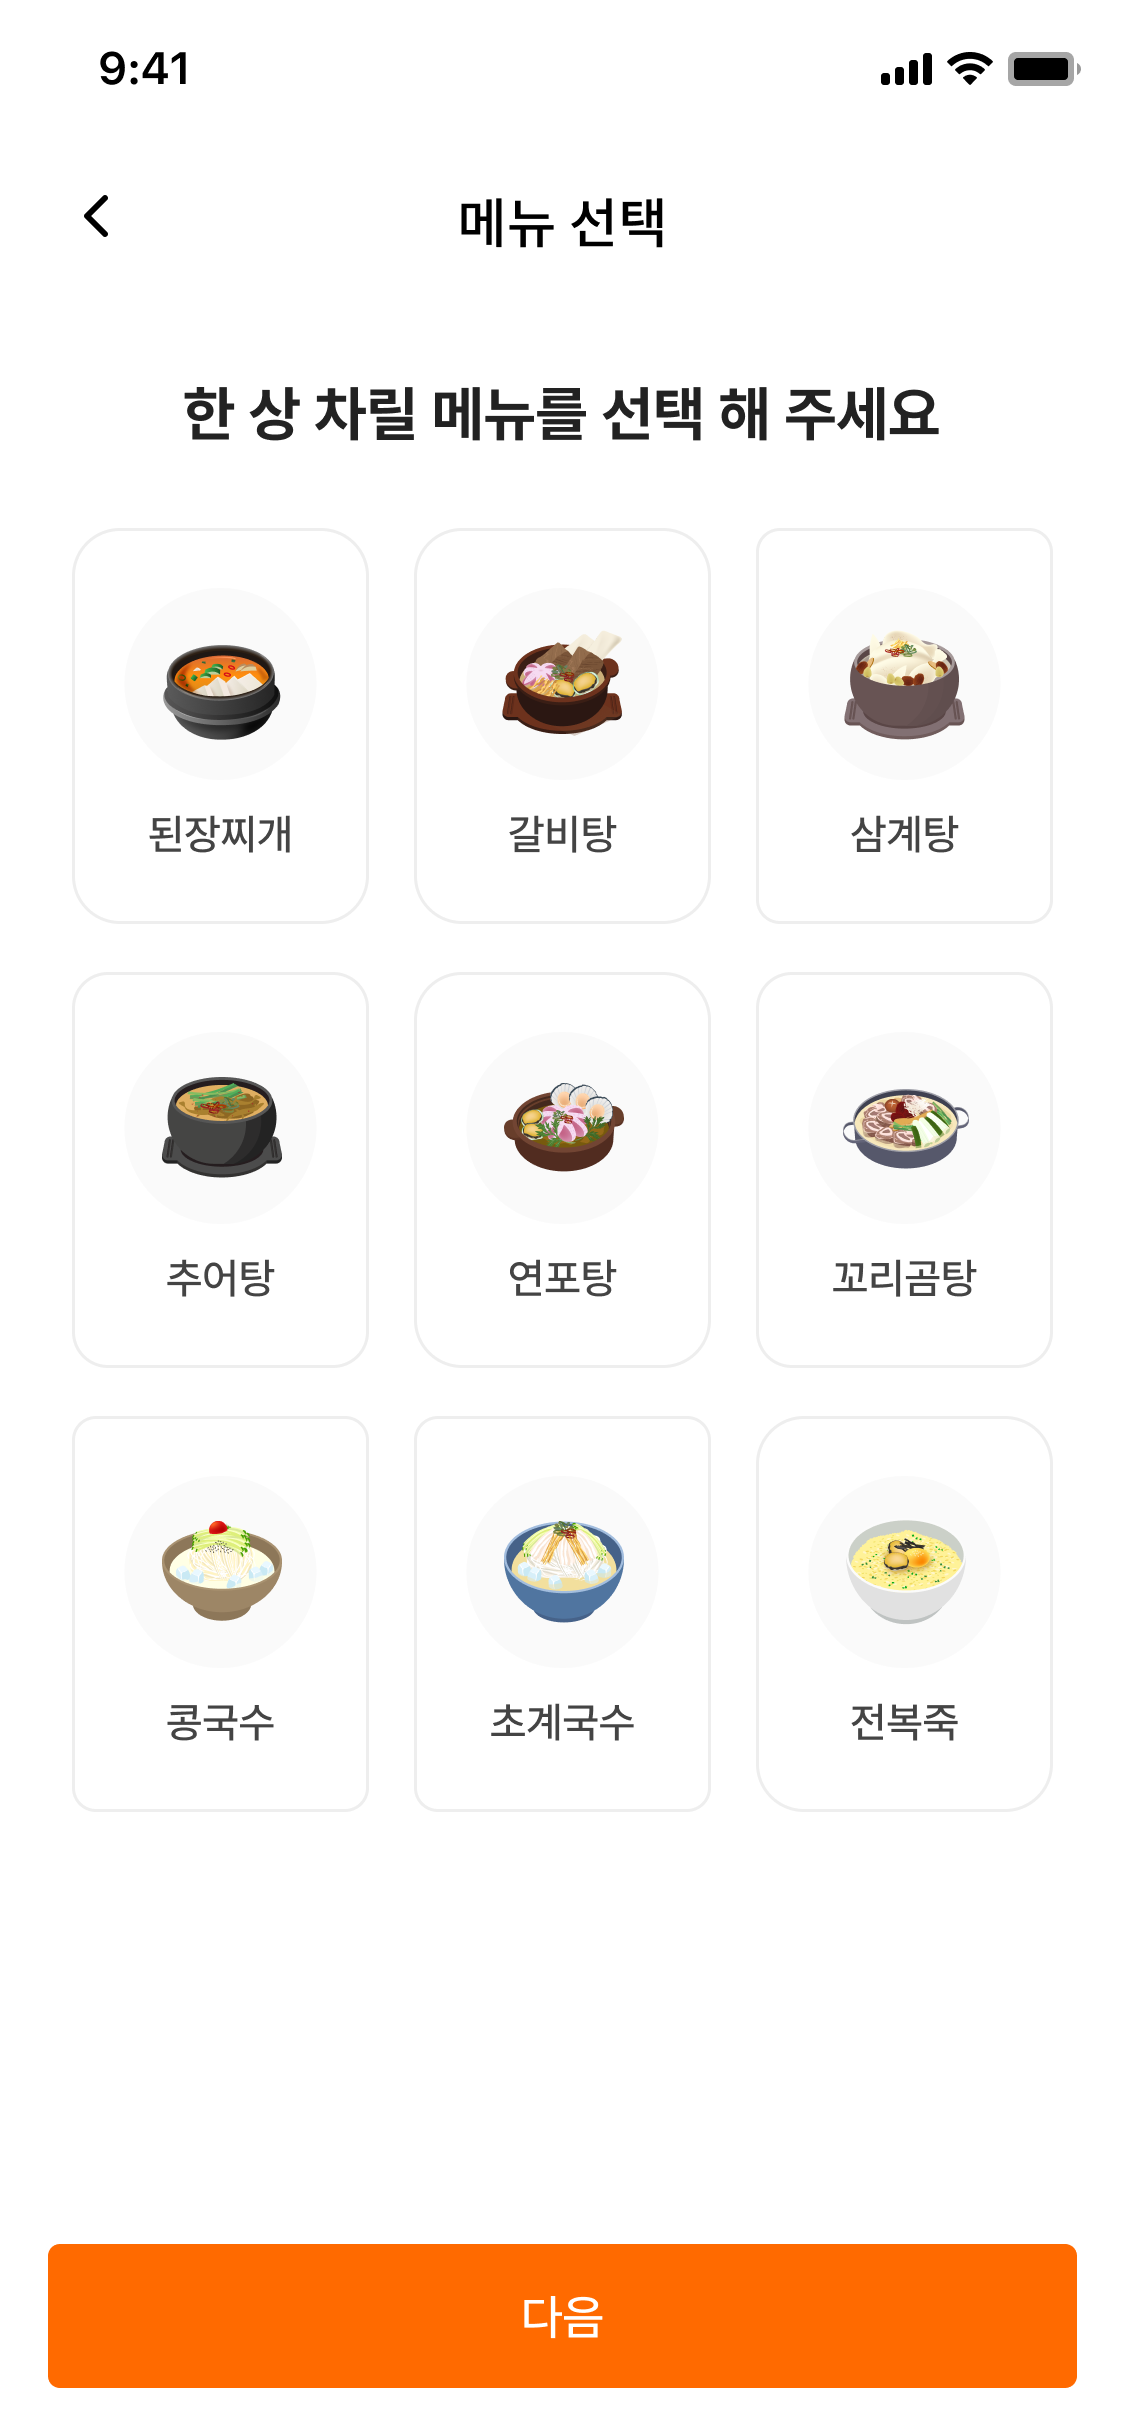
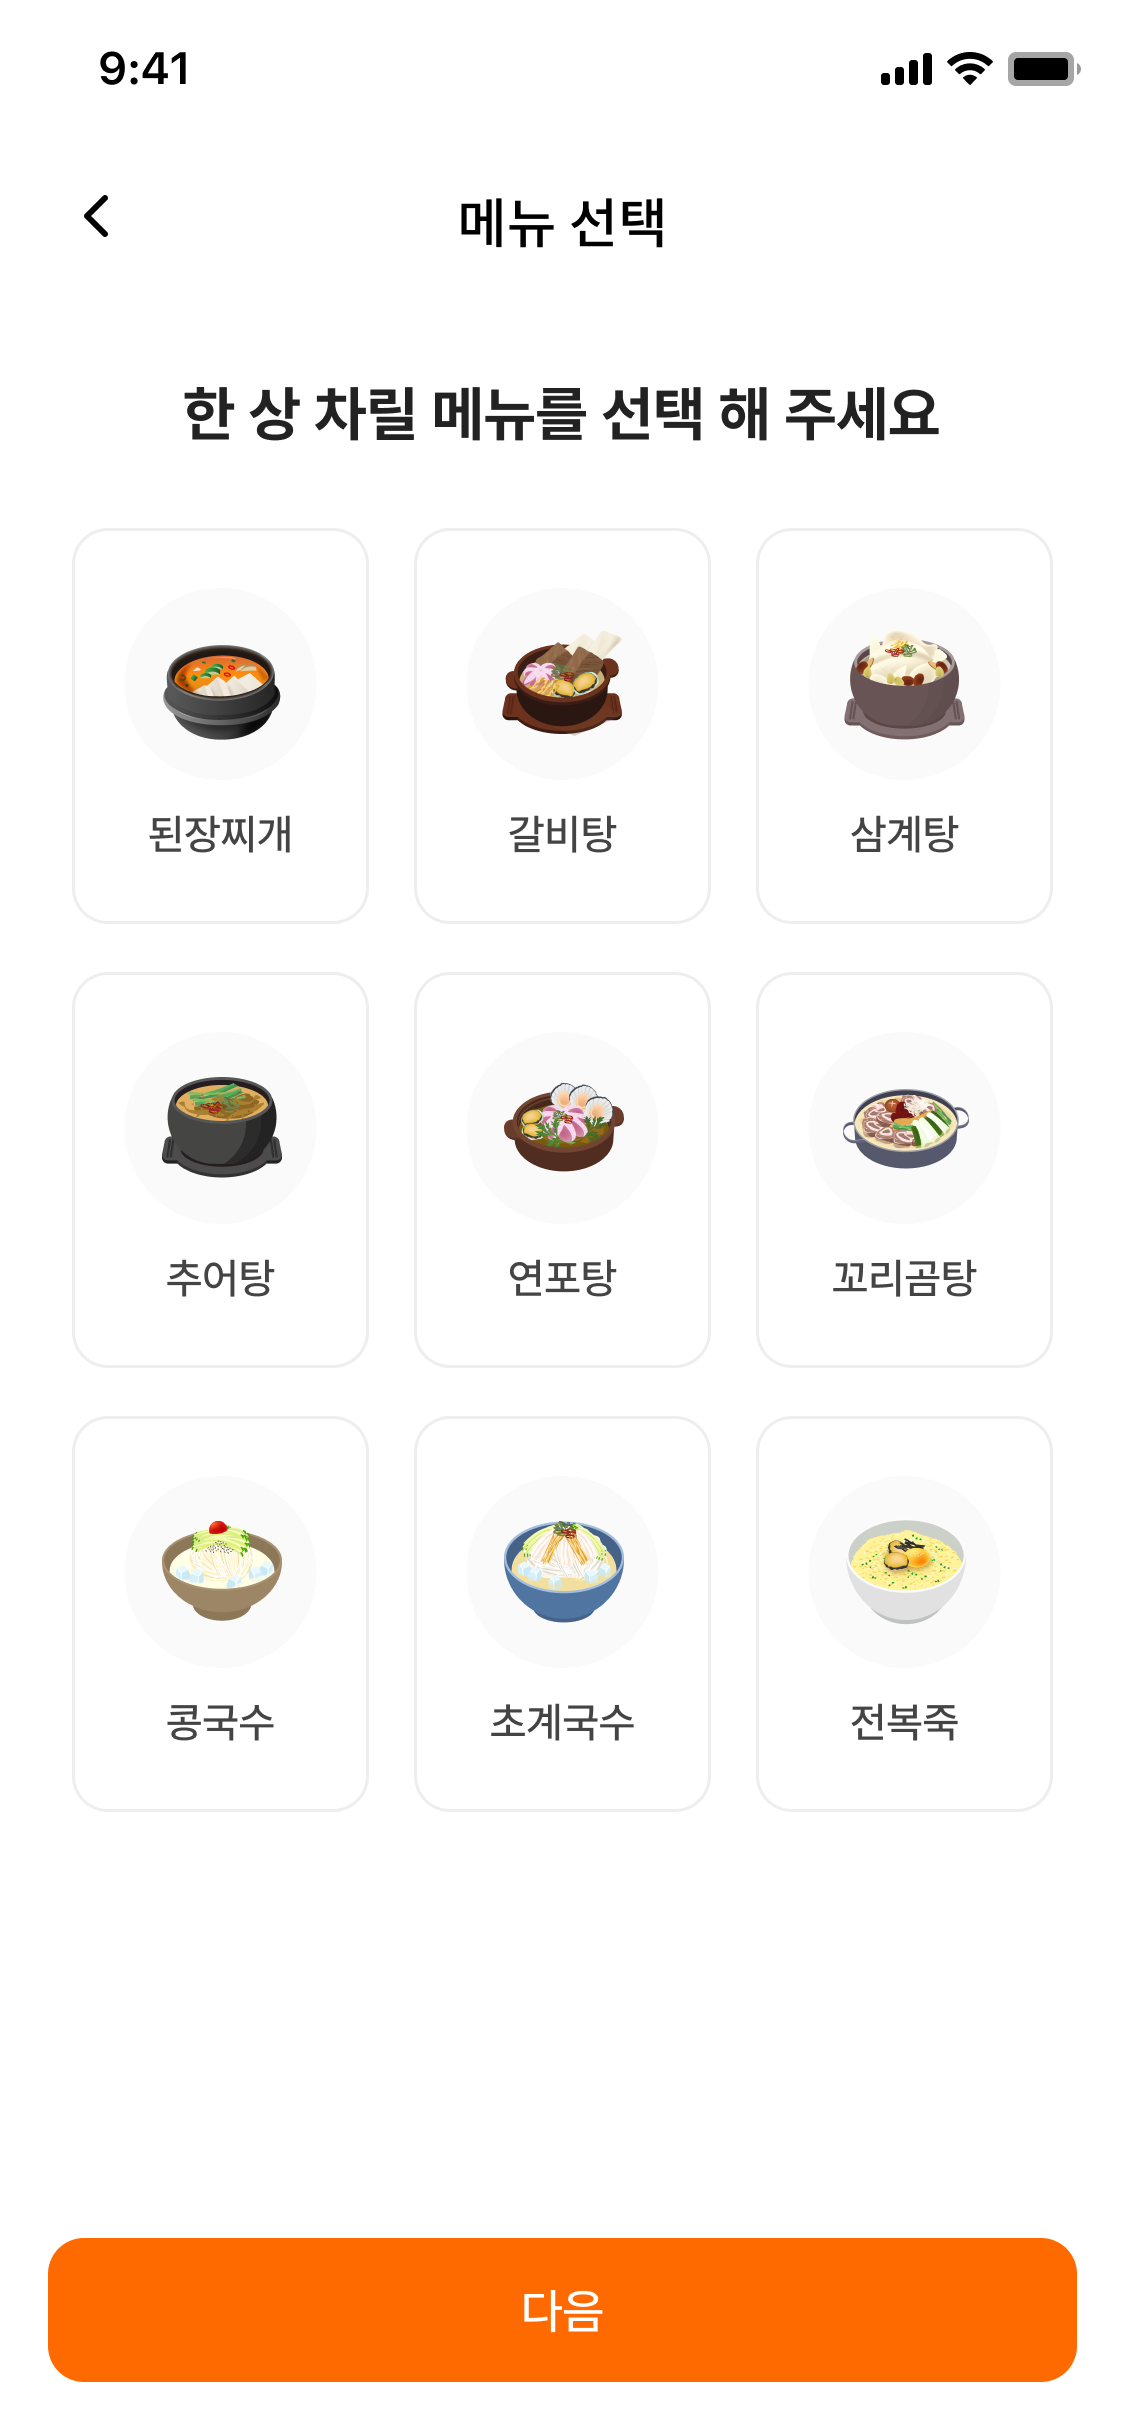
a안 이벤트 수정

Changed region(s): [[0.4667, 0.936, 0.5289, 0.9672], [0.9333, 0.9672, 0.9644, 0.9984], [0.0311, 0.9672, 0.0622, 0.9984]]

diff --git a/a-event.html b/a-event.html
@@ -16,8 +16,8 @@
         .select > * {position:absolute;}
         .select a{width:20px;height:20px;z-index:1;}
         .select a:first-of-type{top:60px;left:20px;}
-        .select a.soup{box-sizing:border-box;top:176px;left:24px;width:99px;height:132px;}
-        .select a.soup.on{border:2px solid #FF6A00;border-radius:12px;box-shadow:0px 4px 6px 0px rgba(249, 123, 31, 0.10);}
+        .select a.soup{box-sizing:border-box;top:175px;left:18px;width:110px;height:144px;}
+        .select a.soup.on{background: url('./images/a-images/event/select_on.png') no-repeat; background-size: contain;}
         .select button{width:343px;height:48px;bottom:16px;left:16px;z-index:1;cursor:pointer;background:transparent;border: 0;}
         
         /* 로딩 */
@@ -84,7 +84,7 @@
         @keyframes vegetable4{0%{opacity:0;top:77px;transform:rotate(0deg);}100%{opacity:1;top:326px;transform:rotate(365deg);}}
         @keyframes vegetable5{0%{opacity:0;top:77px;transform:rotate(0deg);}100%{opacity:1;top:349px;transform:rotate(365deg);}}
         @keyframes vegetable6{0%{opacity:0;top:77px;transform:rotate(0deg);}100%{opacity:1;top:346px;transform:rotate(365deg);}}
-        @keyframes vegetable7{0%,100%{opacity:1;}50%{opacity:0.5;}}
+        @keyframes vegetable7{0%,100%{opacity:1;}50%{opacity:0.4;}}
         @keyframes vegetable8{0%{opacity:0;}100%{opacity:1;}}
         @keyframes vegetable9{0%{opacity:0;top:90px;transform:rotate(0deg);}100%{opacity:1;top:391px;transform:rotate(365deg);}}
         @keyframes vegetable10{0%{opacity:0;top:90px;transform:rotate(0deg);}100%{opacity:1;top:396px;transform:rotate(365deg);}}
